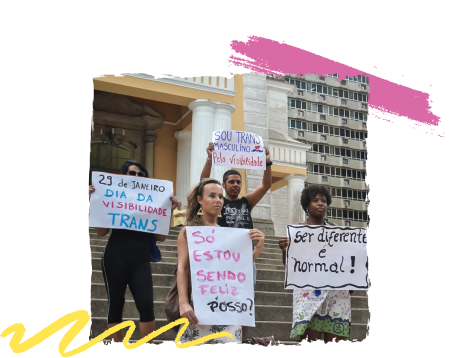
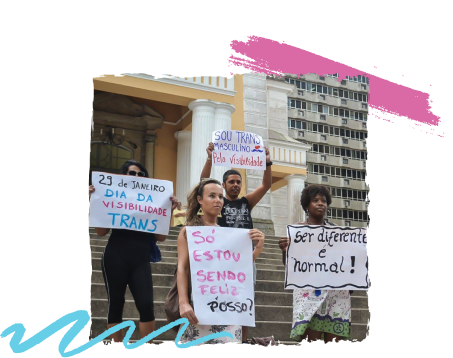
commit de JP
alteração da imagem nosso-desafio para inclusão dos grafismos.
alteração da imagem timeline-2 para outra com o tamanho correto.
Alteração de fonte de alguns títulos

Changed region(s): [[0.0, 0.8603, 0.5254, 1.0]]

diff --git a/index.html b/index.html
@@ -88,8 +88,7 @@
           <p>casos anuais de violência LGBTQUIA+ registrados na capital catarinense</p>
         </div>
         <div id="challenge-img">
-          <img src="./images/img-desafio.png" alt="" width="300px">
-
+          <img src="./images/nosso-desafio.png" alt="Grupo de LGBTQIA+ segurando cartazes" width="400px">
         </div>
         <div id="death-num">
           <h2>175</h2>
@@ -108,7 +107,7 @@
           <div class="items-section">
                 <div class="card-standard">
                   <img src="images/ico-1.png" alt="" class="icon">  
-                  <h3 class="exception">Acessoria jurídica</h3>
+                  <h3 class="exception">Assessoria Jurídica</h3>
                   <p>O preconceito, a violência física e verbal, a exclusão da sociedade fazem parte da vida </p>
                 </div>  
                 <div class="card-standard">

diff --git a/style.css b/style.css
@@ -127,7 +127,7 @@ button.description{
 
 .topic{
     margin-bottom: 1rem;
-    font-family: var(--body-font-1);
+    font-family: var(--title-font-1);
     font-weight: bold;
 }
 
@@ -161,8 +161,9 @@ button.description{
 
 #cases {
     max-width: 146px;
-    margin: 113px 80px 0 50px;
+    margin: 113px 40px 0 50px;
 }
+.topic h2,
 #cases h2, 
 #death-num h2{
     color: #e55555;
@@ -173,7 +174,7 @@ button.description{
 #death-num {
     max-width: 120px;
     margin-top: 250px;
-    margin-left: 80px;
+    margin-left: 50px;
     text-align: right;
 }
 .work-standard{
